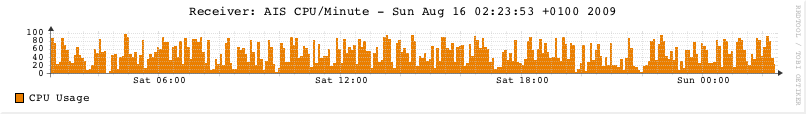
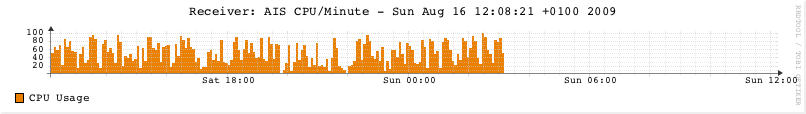
Foo:

diff --git a/Pulse.PlayGround/rrd/dashboard/app/controllers/dashboard_controller.rb b/Pulse.PlayGround/rrd/dashboard/app/controllers/dashboard_controller.rb
@@ -7,13 +7,10 @@ class DashboardController < ApplicationController
     
     # Generate a new RRD. (This will just be skipped if there is already a RRD with that name)
     @received_packets_graph.create_rrd "--start #{@packets[0].created_at.to_i - 2} DS:packets:GAUGE:600:U:U RRA:AVERAGE:0.5:1:24 RRA:LAST:0.5:1:1200"
-
-    @packets.each do |p|                   
-      ok = @received_packets_graph.insert "#{p.created_at.to_f}:#{p.value.to_i}"
-    end if false
-
-    @graph_name = @received_packets_graph.get_name_of_graph           
     
+    @received_packets_graph.insert @packets.map {|p| "#{p.created_at.to_f}:#{p.value.to_i}" }.join(' ')
+
+    @graph_name = @received_packets_graph.get_name_of_graph               
 
     # Build some options for the graph image.
     yesterday = (1.day.ago).to_i
